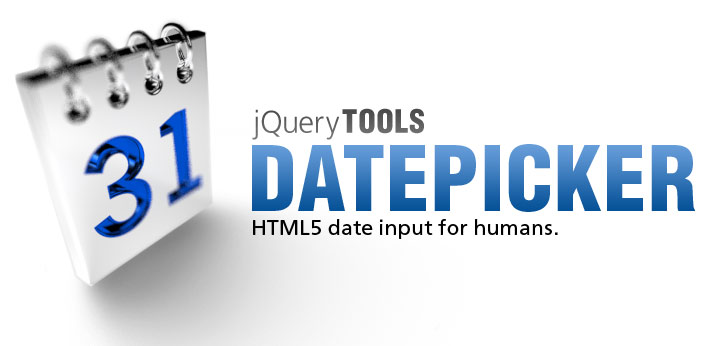
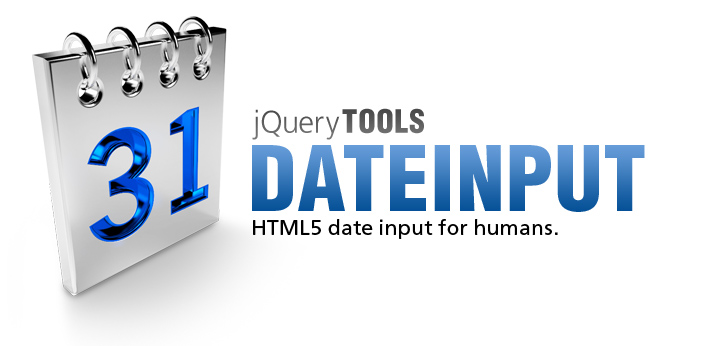
small fixes. couple of new hero images

Changed region(s): [[0.0, 0.0289, 0.3967, 1.0], [0.6103, 0.4046, 0.9764, 0.6358]]

diff --git a/release-notes/index.html b/release-notes/index.html
@@ -189,7 +189,7 @@ body.tools #content {
 		<h3>Smaller and smaller</h3>
 
 		<p>
-			In JavaScript file size is a very important quality measure. Web is all about speed. The combined size of Tabs, Tooltips, Overlay and Scrollable is now <strong>${v.jqtSize} kb</strong> when minified and gzipped. The size is 25% smaller than in previous version. Smaller code is faster and easier to understand. The file size can be reduced mainly by writing better code but also by using a proper JavaScript minifier. By the time of writing Googles Closure Compiler generates smallest files. 
+			In JavaScript file size is a very important quality measure. Web is all about speed. The combined size of Tabs, Tooltips, Overlay and Scrollable is now <strong>${v.jqtSize} kb</strong> when minified and gzipped. New tools are 20% smaller making it faster and easier to understand. The file size can be reduced by writing good code but also by using a proper JavaScript minifier. By the time of writing Googles Closure Compiler generates smallest files which is being used for jQuery Tools 1.2.0.
 		</p>
 
 		<div class="image" title="Fine grained transparency"

diff --git a/release-notes/version-history.html b/release-notes/version-history.html
@@ -405,7 +405,7 @@ $(function() {
 		</li>
 		<li><samp>finish</samp> configuration object has now been moved to configuration's root level. this may break old installations.</li>
 		<li><samp>getOverlay()</samp> method. The previous <samp>getContent()</samp> method is now deprecated and will be removed in Tools 1.2.0.</li>
-		<li>when <samp>closeOnClick</samp> and <samp>closeOnEsc</samp> properties are used together with the <samp>mask</samp> effect then those properties are populated to the Mask tool as well</li>
+		<li>when <samp>closeOnClick</samp> and <samp>closeOnEsc</samp> properties are used together with the <samp>mask</samp> effect then those properties are populated to the Expose tool as well</li>
 		<li>If you supply a value to the <samp>close</samp> property, the overlay does not auto-generate a close button</li>
 		<li>
 			<samp>top</samp> configuration variable now accepts percentage values so that it works better in different kind of screen resolitions. By default this is 10%

diff --git a/toolbox/flashembed.html b/toolbox/flashembed.html
@@ -11,7 +11,7 @@
 	margin-left:-20px;
 }
 </style>
-<%@ include file="../demos/flashembed/onclick2.htm" %>
+<%@ include file="../demos/toolbox/flashembed/onclick2.htm" %>
 
 <h2>Motivation</h2>
 
@@ -39,7 +39,7 @@
 		<strong>Size</strong>. Although rich in features, this plugin weighs around <strong>5 kb</strong> when minified. This is almost half the size of our competitors.
 	</li>
 	<li>
-		<strong>Demos</strong>. We have a lot of <a href="../demos/flashembed">demos</a> and each demo is documented and has a <em>standalone version</em> where everything redundant has been stripped off. There you can see how things can be placed on your site. Copying-and-pasting is encouraged.
+		<strong>Demos</strong>. We have a lot of <a href="../demos/toolbox/flashembed">demos</a> and each demo is documented and has a <em>standalone version</em> where everything redundant has been stripped off. There you can see how things can be placed on your site. Copying-and-pasting is encouraged.
 	</li>
 </ul>
 

diff --git a/demos/dateinput/css/large.css b/demos/dateinput/css/large.css
@@ -21,7 +21,7 @@
 	font-size:13px;
 	border:1px solid #BDC8D2;
 	border-width:1px 1px 0;
-	background:#F5F9FF url(../../rangeinput/img/h300.png) repeat-x;
+	background:#F5F9FF url(../../../img/gradient/h300.png) repeat-x;
 	-moz-box-shadow:0 0 10px 0px #ccc;
 	-webkit-box-shadow:0 0 10px 0px #ccc;
 }
@@ -66,7 +66,7 @@
 	font-size:11px;
 	color:#7e7e7e;
 	line-height:18px;
-	background:#fff url(../../rangeinput/img/h80.png) repeat-x;
+	background:#fff url(../../../img/gradient/h80.png) repeat-x;
 }
 
 #calweeks {
@@ -103,7 +103,7 @@ a.calsunday {
 }
 
 .calweek a:hover, .calfocus {
-	background:#fff url(../../rangeinput/img/h80.png) repeat-x;
+	background:#fff url(../../../img/gradient/h80.png) repeat-x;
 }
 
 .calsun {
@@ -112,7 +112,7 @@ a.calsunday {
 
 a.caloff {
 	color:#999;	
-	background:#eee url(../../rangeinput/img/h80.png) repeat-x;
+	background:#eee url(../../../img/gradient/h80.png) repeat-x;
 }
 
 a.caloff.calfocus {

diff --git a/demos/toolbox/expose/multiple.html b/demos/toolbox/expose/multiple.html
@@ -20,7 +20,7 @@ ${html}
 <h3>JavaScript coding</h3>
 
 <p>
-	Here we initialize the Mask tool for the previous <samp>DIV</samp> elements. Both exposes are configured so that the expose API is made availabe by setting the <samp>api</samp> property to <samp>true</samp>. The <samp>lazy</samp> property is enabled so that the exposing effect won't be loaded upon page load. Both exposes are configured with a customized background color:
+	Here we initialize the Expose tool for the previous <samp>DIV</samp> elements. Both exposes are configured so that the expose API is made availabe by setting the <samp>api</samp> property to <samp>true</samp>. The <samp>lazy</samp> property is enabled so that the exposing effect won't be loaded upon page load. Both exposes are configured with a customized background color:
 </p>
 
 <pii:code>

diff --git a/demos/overlay/modal-dialog.html b/demos/overlay/modal-dialog.html
@@ -8,7 +8,7 @@
 <%@ include file="modal-dialog.htm" %>
 
 <p>
-	The "Modal dialog" is an overlay that requires the user to interact with it before they can return to using the main document. This feature can be achieved with the <a href="${jqt}/toolbox/expose.html">Mask tool</a> which is tightly integrated with this overlay tool.
+	The "Modal dialog" is an overlay that requires the user to interact with it before they can return to using the main document. This feature can be achieved with the <a href="${jqt}/toolbox/expose.html">Expose tool</a> which is tightly integrated with this overlay tool.
 </p>
 
 <p>

diff --git a/demos/toolbox/expose/video.html b/demos/toolbox/expose/video.html
@@ -11,7 +11,7 @@
 <h3>CSS code</h3>
 
 <p>
-	By default, the Mask tool uses the <samp>id</samp> "mask" for the mask. You can customize it by simply adjusting its CSS properties. Here are our customizations for this demo:
+	By default, the Expose tool uses the <samp>id</samp> "mask" for the mask. You can customize it by simply adjusting its CSS properties. Here are our customizations for this demo:
 </p>
 
 <pii:code lang="css">

diff --git a/demos/tooltip/any-html.htm b/demos/tooltip/any-html.htm
@@ -68,7 +68,7 @@ ${css}
 	<img src="${cdn}/img/title/eye.png" alt="Flying screens" 
 		style="float:left;margin:0 15px 20px 0" />
 
-	<table>
+	<table style="margin:0">
 		<tr>
 			<td class="label">File</td>
 			<td>flowplayer-${v.core}.zip</td>
@@ -87,7 +87,7 @@ ${css}
 		</tr>		
 	</table>
 
-	<a href="/blog/36">New features in 3.1</a>
+	<a href="/3.2/">What's new in 3.2</a>
 </div>
 </c:set>
 ${html}

diff --git a/validator/index.html b/validator/index.html
@@ -3,7 +3,7 @@
 
 <%--{{{ Intro --%>
 
-<h1 style="background:url(${cdn}${jqt}/img/hero/dateinput.jpg) no-repeat -14px 34px">
+<h1 style="background:url(${cdn}${jqt}/img/hero/validator.jpg) no-repeat 0 45px">
 	jQuery Validator @ jQuery Tools 
 	<em>HTML5 input validation for humans</em>
 </h1>
